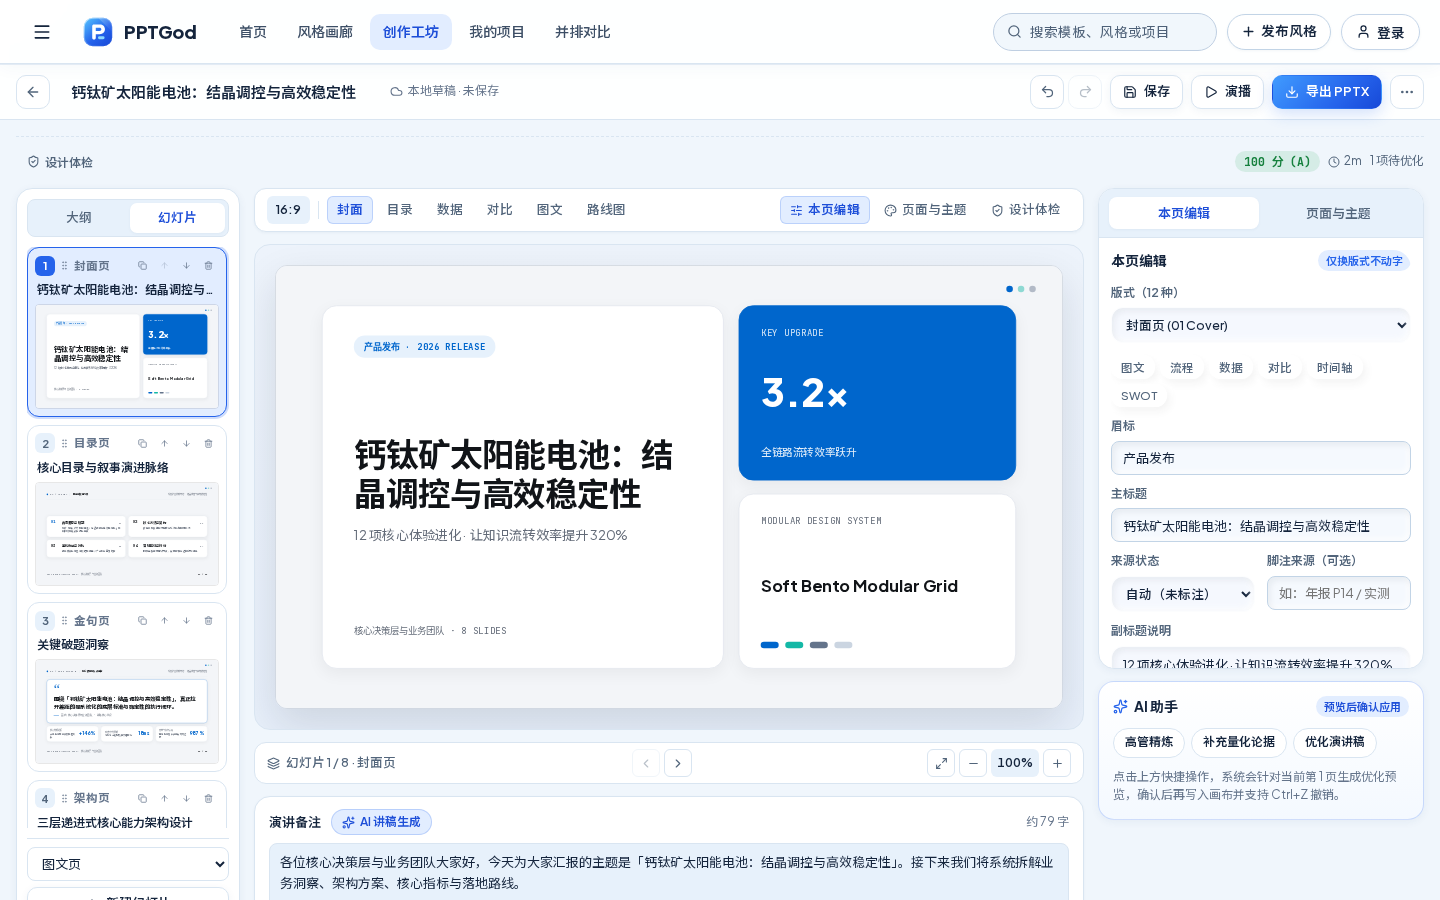
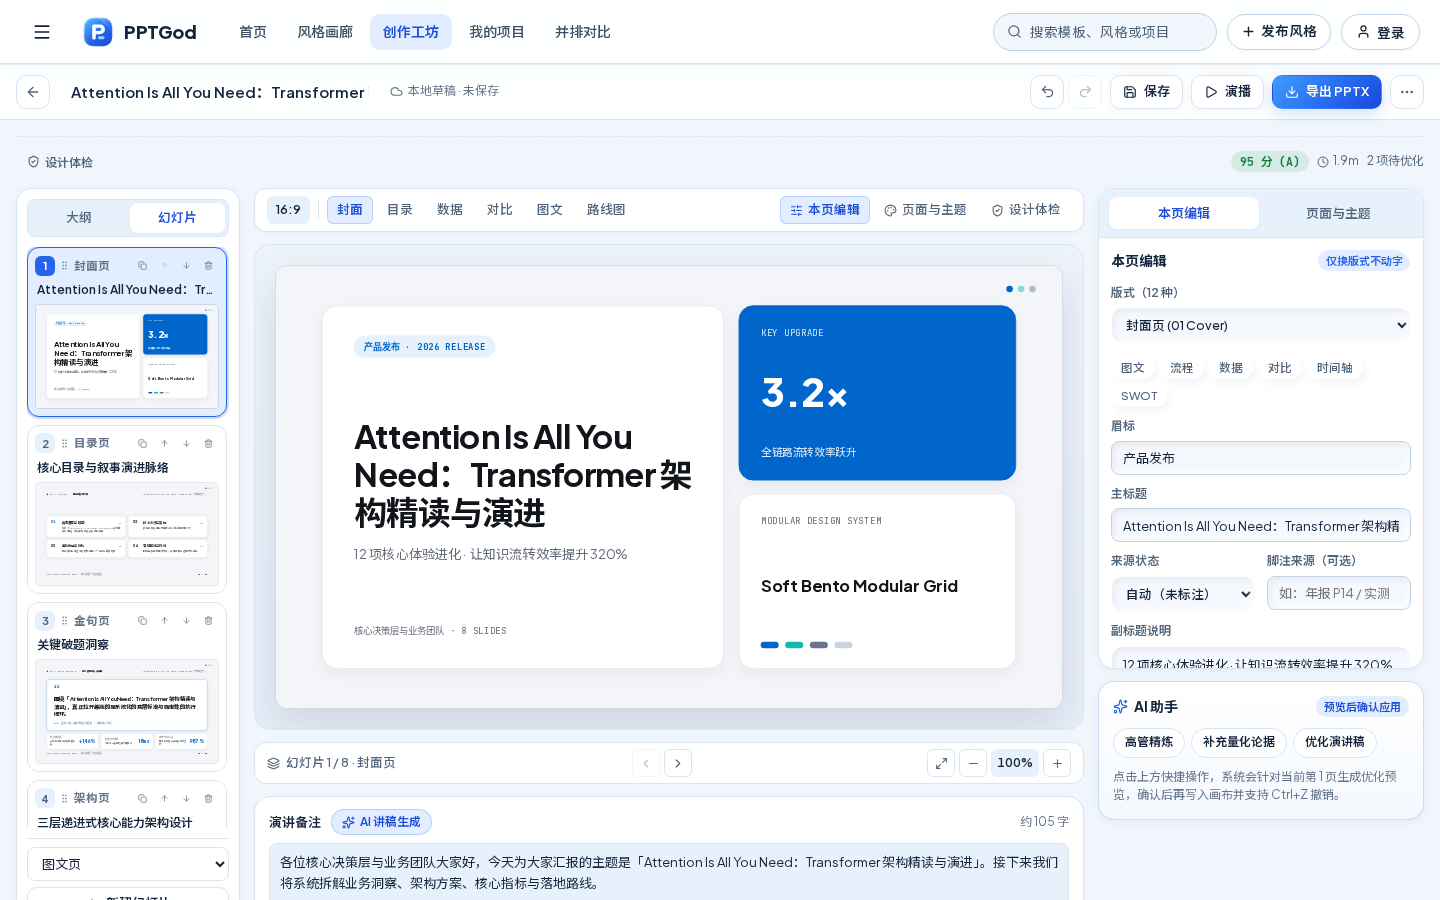
feat(templates): replace perovskite examples with AI papers (Transformer/DeepSeek-R1) & middle/high school textbook lessons

diff --git a/src/components/DocIntakeWorkbench.tsx b/src/components/DocIntakeWorkbench.tsx
@@ -71,63 +71,85 @@ interface SampleDocItem {
 
 const SAMPLE_DOCS: SampleDocItem[] = [
   {
-    id: "nsfc",
-    label: "国自然基金申请书",
-    fileName: "2026国家自然科学基金面上项目申请书.txt",
-    text: `面向多模态单细胞空间转录组的跨尺度稀疏图推理方法研究
-国家自然科学基金面上项目立项依据与技术路线汇报
+    id: "ai-transformer",
+    label: "AI 论文 · Transformer 精读",
+    fileName: "Attention_Is_All_You_Need_论文精读.txt",
+    text: `Attention Is All You Need：Transformer 架构精读与演进
+NeurIPS 2017 经典文献组会汇报（Vaswani et al., arXiv:1706.03762）
 
-一、立项依据与关键科学问题
-当前空间转录组测序通量持续攀升，但跨组织切片的批次漂移与细胞微环境非线性耦合导致传统图神经网络泛化能力下降 31.4%。本课题拟解决“异质空间微环境如何实现跨批次可解释因果表征”这一关键科学问题，提出物理先验约束的双曲稀疏图注意假说。
+一、研究动机与文献综述
+传统序列建模高度依赖 RNN/LSTM 递归结构，长距离依赖路径长度达 O(n) 且无法按时间步并行训练，制约大规模语料扩展。本文提出完全摒弃循环与卷积、仅基于注意力机制（Self-Attention）的 Transformer 编码器-解码器架构。
 
-二、研究内容与技术路线
-1. 构建跨模态对齐编码器：融合组织病理 H&E 图像与 10x Visium 基因表达矩阵，显存占用降低 48%。
-2. 设计层次化稀疏消息传递网络：在 14 个公开肿瘤微环境队列中实现细胞亚群识别准确率 94.6%（p < 0.001）。
-3. 建立可解释靶点筛选流程：结合消融实验与湿实验免疫荧光验证，定位 6 个关键免疫浸润调控轴。
+二、核心方法与模块拆解
+1. 缩放点积注意力（Scaled Dot-Product Attention）：引入 1/√d_k 缩放因子防止点积过大导致 Softmax 梯度消失，任意两词交互路径缩短至 O(1)。
+2. 多头注意力（Multi-Head Attention, h = 8, d_model = 512）：在 8 个独立子空间并行捕捉句法结构与长程语义依赖，配合残差连接与 LayerNorm 稳定深层训练。
+3. 位置编码（Positional Encoding）：采用正余弦函数注入相对与绝对位置信息，支持序列长度外推。
 
-三、前期研究基础与预期成果
-课题组近三年发表中科院一区 SCI 论文 12 篇，已完成 3.2x 推理加速原型验证与 85 万细胞预训练底座，预计申请国家发明专利 4 项并开源标准评测基准数据集。`,
+三、实验结果与消融实验（Baseline 对比）
+1. 在 WMT 2014 英德翻译基准（Dataset）上达到 28.4 BLEU，较此前最佳集成 Baseline 提升 +2.0 BLEU；英法翻译达到 41.8 BLEU。
+2. 训练算力成本仅需 8 张 P100 GPU 训练 3.5 天，显著低于传统 ConvS2S 与 GNMT 模型。
+3. 消融实验（Ablation）表明：单头注意力性能下降 0.9 BLEU，移除位置编码与过小 d_k 均显著拉低翻译准确率。`,
   },
   {
-    id: "teaching",
-    label: "高中物理公开课教案",
-    fileName: "高一物理-牛顿第二定律公开课教案.txt",
+    id: "ai-deepseek-r1",
+    label: "AI 论文 · DeepSeek-R1 拆解",
+    fileName: "DeepSeek-R1_强化学习推理范式研读.txt",
+    text: `DeepSeek-R1：强化学习驱动的大语言模型推理演进
+AI 实验室前沿文献研读与消融实验分析（arXiv:2501.12948）
+
+一、研究动机与核心问题
+大语言模型在复杂数学与代码推理任务上长期依赖海量人工标注思维链（SFT）。论文探讨能否跳过监督微调，直接通过大规模纯强化学习激发模型自主涌现长思维链（Long-CoT）与自我反思能力。
+
+二、核心训练方法与四阶段管线
+1. 纯强化学习探索（DeepSeek-R1-Zero）：采用组相对策略优化（GRPO），免去独立 Critic 价值网络，降低显存开销约 45%，模型自发涌现“Aha Moment”回溯验算行为。
+2. 冷启动与多阶段协同：引入数千条高质量冷启动长思维链（Cold-Start SFT），再执行面向推理的 RL、拒绝采样与全场景对齐，彻底解决语言混杂与可读性问题。
+3. 小模型推理蒸馏：将 R1 生成的 80 万条高质量推理样本蒸馏至 7B / 32B 稠密模型，验证「大推小」显著优于小模型直接 RL。
+
+三、基准实验结果与消融结论
+1. 在 AIME 2024 数学竞赛基准上达到 79.8% Pass@1，在 MATH-500 基准上达到 97.3% 准确率，与主流闭源推理 Baseline 持平。
+2. 蒸馏版 32B 模型在 AIME 2024 上取得 72.6%，较同尺寸纯 RL Baseline 提升超过 25 个百分点，证明强推理轨迹蒸馏的高性价比。`,
+  },
+  {
+    id: "hs-physics",
+    label: "高中物理 · 牛顿第二定律",
+    fileName: "人教版高一物理-牛顿第二定律公开课教案.txt",
     text: `牛顿第二定律：加速度与力、质量的定量探究
-高一物理必修一市级公开课教学设计（45 分钟）
+人教版高中物理必修一第四章第 2 节公开课教学设计（45 分钟）
 
 一、教学目标与学情分析
-学生已掌握加速度概念与受力分析基础，但在“控制变量法处理非线性 1/m 图像”上存在认知难点。本节目标是在 45 分钟课堂互动中，引导同学自主设计实验并得出 F = ma 的定量规律，课堂达成率目标 92%。
+学生已掌握加速度概念与受力分析基础，但在“控制变量法处理非线性 a-m 图像与平衡摩擦力”上存在认知难点。本节目标是在 45 分钟课堂互动中，引导同学自主设计实验并得出 F = ma 的定量规律，课堂达成率目标 92%。
 
 二、情境导入与生活设问
-对比重载卡车与空载跑车在绿灯起步时的速度变化，抛出核心问题：加速度究竟受哪些物理量控制？
+对比重载卡车与空载跑车在绿灯起步时的速度变化，抛出核心驱动问题：加速度究竟受哪些物理量控制？
 
 三、分组实验探究与板书重难点
-1. 保持小车质量不变，改变槽码拉力进行 5 组测量，绘制 a-F 线性关系图。
-2. 保持拉力不变，增加配重改变质量，引导将 a-m 曲线化曲为直转化为 a-1/m 直线。
-3. 板书强调瞬时性、矢量性与同体性三大核心要点。
+1. 保持小车质量不变，改变槽码拉力进行 5 组测量，绘制 a-F 过原点线性关系图。
+2. 保持拉力不变，增加配重改变质量，引导将 a-m 双曲线化曲为直转化为 a-1/m 直线。
+3. 板书强调矢量性、瞬时性与同体性三大核心要点，厘清质量远大于槽码条件的近似边界。
 
 四、随堂例题与分层课后作业
 通过 2 道梯度随堂辨析题即时检验重难点，课后布置基础巩固题与“电梯超重失重手机传感器测量”拓展实践任务。`,
   },
   {
-    id: "biz",
-    label: "Q4 商业增长复盘",
-    fileName: "2026Q4商业增长与毛利重构复盘.txt",
-    text: `2026 Q4 商业增长与毛利重构经营复盘
-向董事会与核心管理层提交的战略诊断与 2027 行动方案
+    id: "ms-chinese",
+    label: "初中语文 · 岳阳楼记",
+    fileName: "统编版九上语文-岳阳楼记教学设计.txt",
+    text: `《岳阳楼记》：写景抒情与“先忧后乐”家国情怀赏析
+统编版初中语文九年级上册第三单元精品公开课教学设计（45 分钟）
 
-一、季度核心经营结果
-本季度公司总 ARR 达到 ¥1.86 亿，同比增长 64%；综合毛利率提升至 76.4%（环比 +5.8pp）；大客户净留存率 NDR 稳定在 124%，回款周期缩短 18 天。
+一、教学目标与学情分析
+九年级学生已具备一定文言文阅读积累，能借助注释疏通大意，但对“借景抒情与议论升华的内在结构”以及范仲淹“谪守巴陵”背后的政治抱负体会尚浅。本课聚焦朗读节奏、实词辨析与情感主旨探究。
 
-二、增长引擎与结构性瓶颈
-AI 行业套件已成为第一大增量来源，贡献 58% 新增订单；但中小客群获客成本同比上升 22%，且私有化交付人力占比仍偏高，制约区域团队人效释放。
+二、情境导入与背景还原
+展示洞庭湖阴晴气象对照图，介绍庆历新政受挫后滕子京与范仲淹同遭贬谪的时代背景，引出核心问题：范仲淹未亲临重修后的岳阳楼，为何能写出千古绝唱？
 
-三、市场格局与竞争壁垒诊断
-对比三家头部竞品，我们在垂直行业知识图谱与本地化合规部署上具备 12 个月先发窗口，但生态插件市场覆盖率落后 15 个百分点。
+三、文本细读与板书对比设计
+1. 疏通高频文言实词与一词多义（如“观”“微”“景”“一”），把握骈散结合的诵读韵律。
+2. 双境板书对比：第三段“霪雨霏霏、薄暮冥冥”的迁客悲情 vs 第四段“春和景明、上下天光”的喜洋洋气象。
+3. 主旨探究：剖析“不以物喜，不以己悲”的旷达胸襟，由一己悲欢升华至“先天下之忧而忧，后天下之乐而乐”的士大夫担当。
 
-四、2027 Q1 战略建议与降本路线
-1. 全面推行标准化 SaaS 交付模板，目标将单项目实施周期从 42 天压降至 16 天，运营成本下降 28%。
-2. 聚焦 120 家年客单价超 80 万的头部 KA，启动联合标杆共创计划与续费健康度红黄绿预警机制。`,
+四、随堂例题与分层课后作业
+课堂完成 3 道中考高频文言虚实词辨析随堂练习；课后分层布置背诵默写与“跨越千年的对话：给范仲淹写一封 300 字回信”拓展写作任务。`,
   },
 ];
 

diff --git a/src/components/generate/WorkshopWizardView.tsx b/src/components/generate/WorkshopWizardView.tsx
@@ -39,10 +39,10 @@ import {
 } from "@/types/prompt";
 
 const QUICK_SAMPLE_TOPICS = [
-  "钙钛矿太阳能电池研究进展",
-  "半导体工艺与缺陷分析",
-  "2026 年度工作总结与规划",
-  "产品方案与增长汇报",
+  "Attention Is All You Need · Transformer 论文精读",
+  "DeepSeek-R1 强化学习推理范式与技术拆解",
+  "高中物理必修一 · 牛顿第二定律公开课",
+  "初中语文 · 《岳阳楼记》意境赏析课件",
 ];
 
 const PREVIEW_THUMB_TYPES: SlideType[] = [
@@ -335,7 +335,7 @@ export default function WorkshopWizardView({
                   maxLength={1000}
                   value={topic}
                   onChange={(e) => onTopicChange(e.target.value)}
-                  placeholder="描述你想创建的演示文稿，例如「钙钛矿太阳能电池研究进展与关键机理」"
+                  placeholder="描述你想创建的演示文稿，例如「Attention Is All You Need 论文精读」或「高中物理 · 电磁感应公开课」"
                   aria-label="演示文稿主题与核心内容"
                 />
                 <span className="gl-ws-char-count" aria-live="polite">

diff --git a/src/components/dashboard/CreatePanel.tsx b/src/components/dashboard/CreatePanel.tsx
@@ -285,7 +285,7 @@ export default function CreatePanel({
               ref={topicRef}
               label="演示主题"
               hideLabel
-              placeholder="描述你的演示主题，例如「钙钛矿太阳能电池的结晶调控与稳定性研究」"
+              placeholder="描述你的演示主题，例如「Attention Is All You Need 论文精读」或「高中物理 · 牛顿第二定律公开课」"
               value={topic}
               maxLength={TOPIC_MAX}
               rows={3}

diff --git a/src/components/GalleryClient.tsx b/src/components/GalleryClient.tsx
@@ -42,10 +42,10 @@ import {
 import "@/styles/gallery.css";
 
 const TOPIC_PRESETS = [
-  "2026 AI Agent 落地路线",
-  "Q4 增长与毛利复盘",
-  "高中物理 · 电磁感应公开课",
-  "国家自然科学基金答辩",
+  "Attention Is All You Need · Transformer 精读",
+  "DeepSeek-R1 强化学习推理范式",
+  "高中物理 · 电磁感应与法拉第定律",
+  "初中语文 · 《岳阳楼记》情境教学",
 ];
 
 const DOMAIN_ICONS: Record<DomainTabId, React.ReactNode> = {

diff --git a/src/components/generate/DeckSpecTweaker.tsx b/src/components/generate/DeckSpecTweaker.tsx
@@ -282,7 +282,7 @@ export default function DeckSpecTweaker({
               type="text"
               className="pg-input"
               maxLength={60}
-              placeholder="例如：清华大学材料学院 · NSFC 2026 或 XX 中学物理公开课"
+              placeholder="例如：AI 实验室组会 · NeurIPS 论文精读 或 XX 中学物理公开课"
               value={deckSpec.layout.brandFooter || ""}
               onChange={(e) =>
                 onChangeSpec({

diff --git a/README.md b/README.md
@@ -76,7 +76,7 @@
 
 ### 1. 资料直通车引擎 · 6 类材料分流 × 证据契约 × 双样张校准
 
-拖入任意 `.pdf` / `.docx` / `.pptx` / `.md` / `.txt`（单文件 `≤ 10 MB`，亦支持纯文本粘贴与 3 份内置示例），系统在浏览器与服务端协同完成从原稿解析到风格校准的 4 步自动路由：
+拖入任意 `.pdf` / `.docx` / `.pptx` / `.md` / `.txt`（单文件 `≤ 10 MB`，亦支持纯文本粘贴与 **4 份内置示例**：*Attention Is All You Need* / *DeepSeek-R1* 论文精读、人教版高中物理《牛顿第二定律》、统编版初中语文《岳阳楼记》），系统在浏览器与服务端协同完成从原稿解析到风格校准的 4 步自动路由：
 
 | 引擎环节 | 自动化决策能力 |
 | --- | --- |
